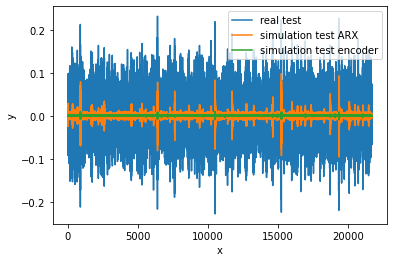
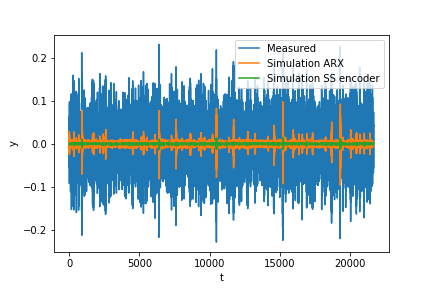
minor readme change and figure updates

diff --git a/README.md b/README.md
@@ -35,15 +35,16 @@ test_simulation_SS_linear = sys_SS_linear.apply_experiment(test)
 
 #Encoder method with neural networks (Beintema, et al. 2020a)
 sys_encoder = deepSI.fit_systems.SS_encoder(nx=4, na=10, nb=10) 
-sys_encoder.fit(train, epochs=50, batch_size=256, loss_kwargs={'nf':50}, sim_val=test[:5000]) #batch optimization with a validation rutine
+#batch optimization using PyTorch for back propagation. 
+sys_encoder.fit(train, epochs=50, batch_size=256, loss_kwargs={'nf':50}, sim_val=test[:5000]) 
 test_simulation_encoder = sys_encoder.apply_experiment(test)
 
 #plotting the residuals
 plt.plot(test.y)
 plt.plot(test.y-test_simulation_SS_linear.y)
 plt.plot(test.y-test_simulation_encoder.y)
-plt.ylabel('y'); plt.xlabel('x'); 
-plt.legend(['Measured','simulation ARX', 'simulation encoder'])
+plt.ylabel('y'); plt.xlabel('t'); 
+plt.legend(['Measured','Simulation ARX', 'Simulation SS encoder'])
 plt.show()
 ```
 
